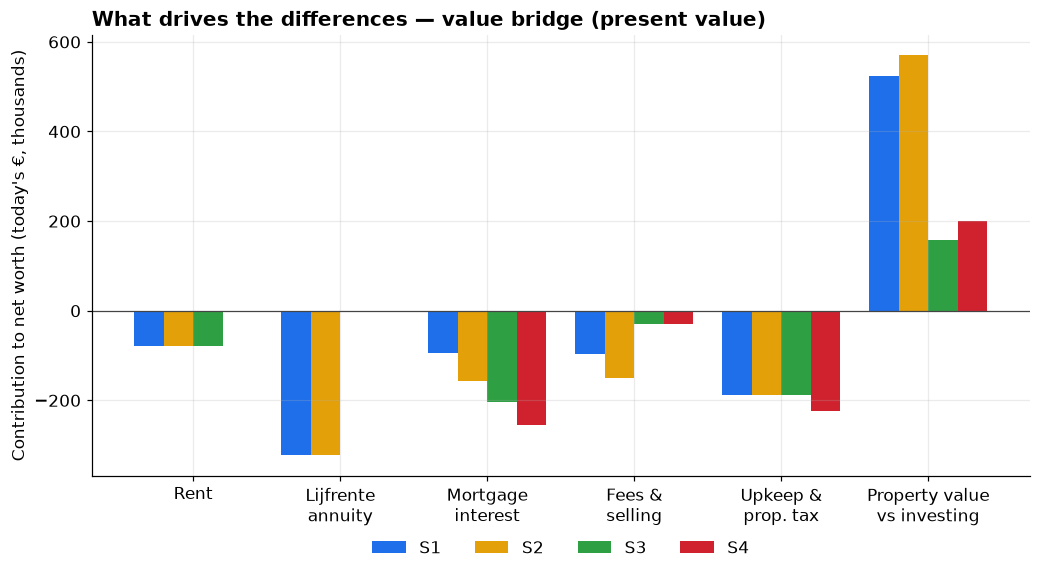
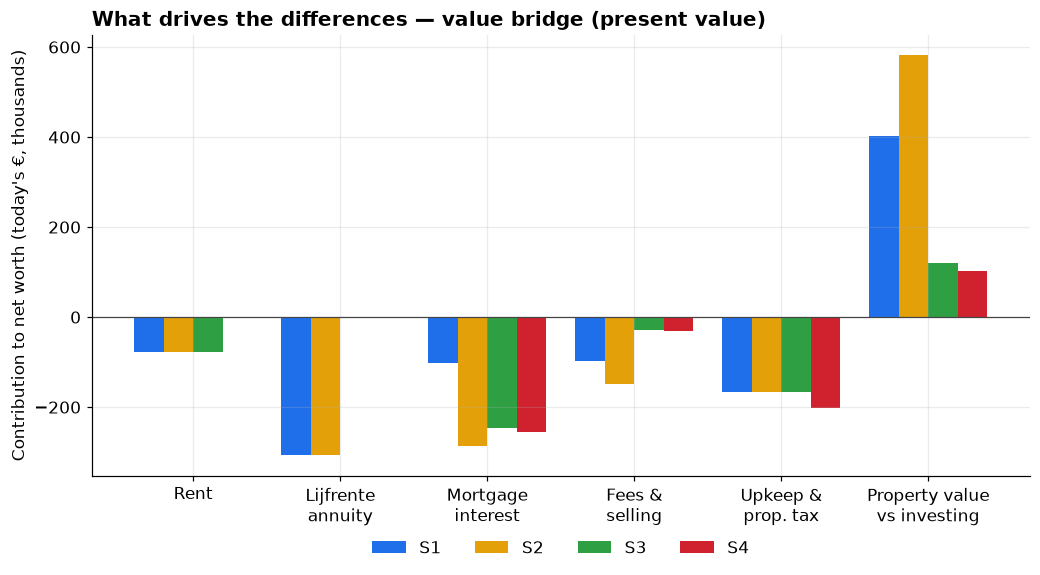
Set base-case investment return to 3.75% (equal to mortgage rate hurdle)

diff --git a/config.py b/config.py
@@ -94,7 +94,9 @@ class Assumptions:
     # ------------------------------------------------------------------ #
     #  MARKET RETURNS (the two biggest swing factors)                     #
     # ------------------------------------------------------------------ #
-    investment_return_annual: float = 0.03      # diversified portfolio, nominal
+    investment_return_annual: float = 0.0375     # set equal to the mortgage rate
+                                                  # (treat investing at the risk-free
+                                                  # /mortgage hurdle: no risk premium)
     house_appreciation_annual: float = 0.03     # Belgian long-run nominal
 
     # ------------------------------------------------------------------ #

diff --git a/REPORT.md b/REPORT.md
@@ -1,6 +1,6 @@
 # Buy, rent, or lijfrente? A four-scenario comparison
 
-*Personal-finance decision analysis · prepared 11 Jul 2026 · horizon 30 years · all figures in EUR · base case: 3% investing vs 3% appreciation*
+*Personal-finance decision analysis · prepared 11 Jul 2026 · horizon 30 years · all figures in EUR · base case: 3.75% investing vs 3% appreciation*
 
 **Scenarios compared**
 
@@ -13,14 +13,14 @@
 
 ## The answer, up front
 
-> Under the base-case assumptions, **Lijfrente + rent, then move in (S1)** maximises long-run wealth (€1,945,333 at 30y), and **Rent, then buy normal (S3)** is weakest (€1,744,742).
+> Under the base-case assumptions, **Lijfrente + rent, then move in (S1)** maximises long-run wealth (€1,923,517 at 30y), and **Lijfrente + rent, then sell & buy normal (S2)** is weakest (€1,752,693).
 >
-> Ranking: **S1** (€1,945,333) > **S4** (€1,815,872) > **S2** (€1,781,619) > **S3** (€1,744,742). The gap between best and worst is **€200,591** (~11% of net worth). All four scenarios end owning the **same debt-free home**, so *every difference is opportunity cost, financing and fees — not the house itself.*
+> Ranking: **S1** (€1,923,517) > **S4** (€1,807,788) > **S3** (€1,770,981) > **S2** (€1,752,693). The gap between best and worst is **€170,824** (~10% of net worth). All four scenarios end owning the **same debt-free home**, so *every difference is opportunity cost, financing and fees — not the house itself.*
 
 **Two findings dominate:**
 
-1. **The lijfrente is priced attractively.** Its total outlay (€699,600 = €300,000 up front + €2,220 × 180 months) is *below* the €750,000 market value, is spread over 15 years, and needs almost no mortgage — effectively cheap financing for the very same asset. Conversely, **buying a normal home now (S4)** is the most expensive way to own the identical house: the biggest mortgage and the most interest (€328,148).
-2. **The two leaders — S1 and S4 — are within €129,461 of each other** (~7%), and which one wins comes down to a single comparison: **your investment return (3%) vs. your mortgage rate (3.75%).** With the *rational* financing rule, whenever investing beats the mortgage you borrow the maximum and keep cash invested — which favours the rent-and-invest route (S3); when the mortgage is dearer you pay it down, which favours the near-mortgage-free lijfrente (S1). Here investing trails the mortgage, so **S1 leads**. House appreciation vs. your investment return is the second lever (it decides rent-vs-own timing). See Exhibits 7–8.
+1. **The lijfrente is priced attractively.** Its total outlay (€699,600 = €300,000 up front + €2,220 × 180 months) is *below* the €750,000 market value, is spread over 15 years, and needs almost no mortgage — effectively cheap financing for the very same asset. Conversely, **buying a normal home now (S4)** is the most expensive way to own the identical house: the biggest mortgage and the most interest (€345,776).
+2. **The two leaders — S1 and S4 — are within €115,728 of each other** (~6%), and which one wins comes down to a single comparison: **your investment return (3.75%) vs. your mortgage rate (3.75%).** With the *rational* financing rule, whenever investing beats the mortgage you borrow the maximum and keep cash invested — which favours the rent-and-invest route (S3); when the mortgage is dearer you pay it down, which favours the near-mortgage-free lijfrente (S1). Here investing trails the mortgage, so **S1 leads**. House appreciation vs. your investment return is the second lever (it decides rent-vs-own timing). See Exhibits 7–8.
 
 ## 1 · How much wealth each path builds
 
@@ -40,7 +40,7 @@ Only factors that **differ** between scenarios are shown, in today's money (pres
 
 *Exhibit 3 — Total cash actually paid out over the horizon, by category (nominal). Excludes down payment and mortgage principal, which are recoverable as home equity. Clearest view of the €2,220/mo annuity, rent and interest burden.*
 
-> **Watch the paradox:** S3 has the *lowest* cash out of pocket (€741,548) yet the *lowest* net worth — because it sinks the most capital into a home appreciating at 3% instead of investments earning 3%. Out-of-pocket cost and wealth are not the same thing; opportunity cost is invisible in a bank statement.
+> **Watch the paradox:** S2 has the *lowest* cash out of pocket (€1,409,146) yet the *lowest* net worth — because it sinks the most capital into a home appreciating at 3% instead of investments earning 3.75%. Out-of-pocket cost and wealth are not the same thing; opportunity cost is invisible in a bank statement.
 
 ## 3 · The numbers
 
@@ -48,11 +48,11 @@ Legend: **S1** = Lijfrente + rent, then move in · **S2** = Lijfrente + rent, th
 
 | Metric | **S1 ✅** | S2 | S3 | S4 |
 |---|---|---|---|---|
-| Net worth at horizon (nominal) | €1,945,333 | €1,781,619 | €1,744,742 | €1,815,872 |
-| Net worth in today's money (PV) | €803,428 | €735,814 | €720,583 | €749,960 |
-| Peak monthly housing outflow | €4,773 | €4,875 | €4,368 | €4,416 |
-| Peak cumulative funding gap \* | €146,199 | €125,438 | €71,226 | €122,308 |
-| Total mortgage interest | €120,683 | €216,738 | €301,159 | €328,148 |
+| Net worth at horizon (nominal) | €1,923,517 | €1,752,693 | €1,770,981 | €1,807,788 |
+| Net worth in today's money (PV) | €639,418 | €582,633 | €588,712 | €600,948 |
+| Peak monthly housing outflow | €4,940 | €6,991 | €5,313 | €4,583 |
+| Peak cumulative funding gap \* | €138,228 | €63,275 | €44,987 | €126,892 |
+| Total mortgage interest | €138,310 | €445,638 | €400,849 | €345,776 |
 | Total rent paid | €84,278 | €84,278 | €84,278 | €0 |
 | Total lijfrente annuity | €399,600 | €399,600 | €0 | €0 |
 | Total transaction/selling fees | €97,500 | €158,298 | €34,778 | €30,000 |
@@ -70,7 +70,7 @@ Legend: **S1** = Lijfrente + rent, then move in · **S2** = Lijfrente + rent, th
 
 ![Exhibit 5 — monthly outflow vs budget](report_images/05_outflow.png)
 
-*Exhibit 5 — Monthly housing outflow vs. the €3,600 budget. A high line is not the same as unaffordable: when the mortgage is cheaper than investing, the rational choice is to keep cash invested and let it cover the gap. S2 looks heavy (small mortgage + the continuing €2,220/mo annuity), but its true strain is small — its funding gap is only €125,438 because the home-1 sale proceeds sit in the portfolio (Exhibit 6) and cover it.*
+*Exhibit 5 — Monthly housing outflow vs. the €3,600 budget. A high line is not the same as unaffordable: when the mortgage is cheaper than investing, the rational choice is to keep cash invested and let it cover the gap. S2 looks heavy (small mortgage + the continuing €2,220/mo annuity), but its true strain is small — its funding gap is only €63,275 because the home-1 sale proceeds sit in the portfolio (Exhibit 6) and cover it.*
 
 ![Exhibit 6 — investment portfolio balance](report_images/06_portfolio_path.png)
 
@@ -90,13 +90,13 @@ The ranking hinges almost entirely on two uncertain numbers: what you earn inves
 
 ## 6 · Risks & qualitative considerations
 
-Ordered best-to-worst on the base-case finances. The financial gaps are modest (~11%) relative to these non-financial factors, which may matter more.
+Ordered best-to-worst on the base-case finances. The financial gaps are modest (~10%) relative to these non-financial factors, which may matter more.
 
 ### S1 · Lijfrente + rent, then move in
 
 *Buy the lijfrente home now, rent for 5 years, then move into the lijfrente home and keep it.*
 
-- **Cash-flow strain (high).** For 5 years you pay rent *and* the annuity *and* a mortgage simultaneously — peak outflow €4,773/mo and a cumulative funding gap up to €146,199 that must come from extra savings or income beyond the €3.6k budget.
+- **Cash-flow strain (high).** For 5 years you pay rent *and* the annuity *and* a mortgage simultaneously — peak outflow €4,940/mo and a cumulative funding gap up to €138,228 that must come from extra savings or income beyond the €3.6k budget.
 - **5-year lock-in (high).** You are committed to the lijfrente home and its location years before you can live there. If your life plans change (job, family, city) you are stuck or must sell into scenario 2.
 - **Transaction-tax risk (high).** The home is not your occupied sole dwelling at purchase, so it likely attracts the ~12% registration duty, not the 2% own-home rate. Confirm with a notary — this is ~€75k of swing.
 - **Counterparty / annuity risk (medium).** The construct depends on the seller and contract terms (indexation, what happens on early death, security on the property). Have the deed reviewed.
@@ -107,9 +107,18 @@ Ordered best-to-worst on the base-case finances. The financial gaps are modest (
 *Buy a normal home now and live in it.*
 
 - **Simplest & most secure (upside).** One transaction, no lock-in games, you own and live in your home immediately with full price certainty and stability.
-- **Opportunity cost is the catch (high).** €200k plus every spare euro is tied up in an asset appreciating at 3% instead of investments at 3%; the biggest mortgage means €328,148 of interest.
-- **Budget is tight long-term (medium).** Mortgage + rising upkeep can exceed the €3.6k budget in later years (funding gap up to €122,308), assuming the budget is not raised with income growth.
+- **Opportunity cost is the catch (high).** €200k plus every spare euro is tied up in an asset appreciating at 3% instead of investments at 3.75%; the biggest mortgage means €345,776 of interest.
+- **Budget is tight long-term (medium).** Mortgage + rising upkeep can exceed the €3.6k budget in later years (funding gap up to €126,892), assuming the budget is not raised with income growth.
 - **Wins if property outperforms.** If appreciation meets or beats your investment return, buying now becomes the strongest option — it has the most exposure to the home.
+
+### S3 · Rent, then buy normal
+
+*Rent for 5 years, then buy a normal home.*
+
+- **Lowest strain, most flexible (upside).** Comfortably within budget (peak €5,313/mo, no funding gap). Renting keeps you mobile for 5 years and your €200k stays invested and compounding.
+- **Timing / price risk (high).** You buy in 5 years at an unknown price. If homes appreciate faster than assumed you pay more and this advantage shrinks or reverses (see Exhibit 7).
+- **Rate risk (medium).** The mortgage rate in 5 years is unknown; a materially higher rate would erode the edge.
+- **Rent is 'lost' money (medium).** ≈€84k of rent over 5 years buys no equity — but the invested capital more than compensates while returns exceed appreciation.
 
 ### S2 · Lijfrente + rent, then sell & buy normal
 
@@ -119,15 +128,6 @@ Ordered best-to-worst on the base-case finances. The financial gaps are modest (
 - **Annuity may continue after sale (high).** Unless the annuity legally transfers to the buyer, you keep paying €2,220/mo for the remaining 10 years on a home you no longer own. Model default assumes it continues; verify the contract.
 - **Only makes sense as a fallback.** This is essentially scenario 1 gone wrong — choose it only if you deliberately want the lijfrente as a 5-year financial bridge and always intended to buy elsewhere.
 - **Speculative CGT risk.** Selling a non-primary home within 5 years can trigger 16.5% capital-gains tax in Belgium. Timing the sale just past 5 years matters.
-
-### S3 · Rent, then buy normal
-
-*Rent for 5 years, then buy a normal home.*
-
-- **Lowest strain, most flexible (upside).** Comfortably within budget (peak €4,368/mo, no funding gap). Renting keeps you mobile for 5 years and your €200k stays invested and compounding.
-- **Timing / price risk (high).** You buy in 5 years at an unknown price. If homes appreciate faster than assumed you pay more and this advantage shrinks or reverses (see Exhibit 7).
-- **Rate risk (medium).** The mortgage rate in 5 years is unknown; a materially higher rate would erode the edge.
-- **Rent is 'lost' money (medium).** ≈€84k of rent over 5 years buys no equity — but the invested capital more than compensates while returns exceed appreciation.
 
 ## 7 · Key assumptions
 
@@ -149,7 +149,7 @@ All of these live in `config.py` and can be changed centrally; re-run `python ge
 | Buy costs — lijfrente (non-primary) | 13% of value |
 | Selling costs | 3% of price |
 | Upkeep + insurance + property tax | 1% of value / yr (while occupying) |
-| Investment return | 3% / yr (nominal) |
+| Investment return | 3.75% / yr (nominal) |
 | House appreciation | 3% / yr (nominal) |
 | Comparison horizon | 30 years |
 
